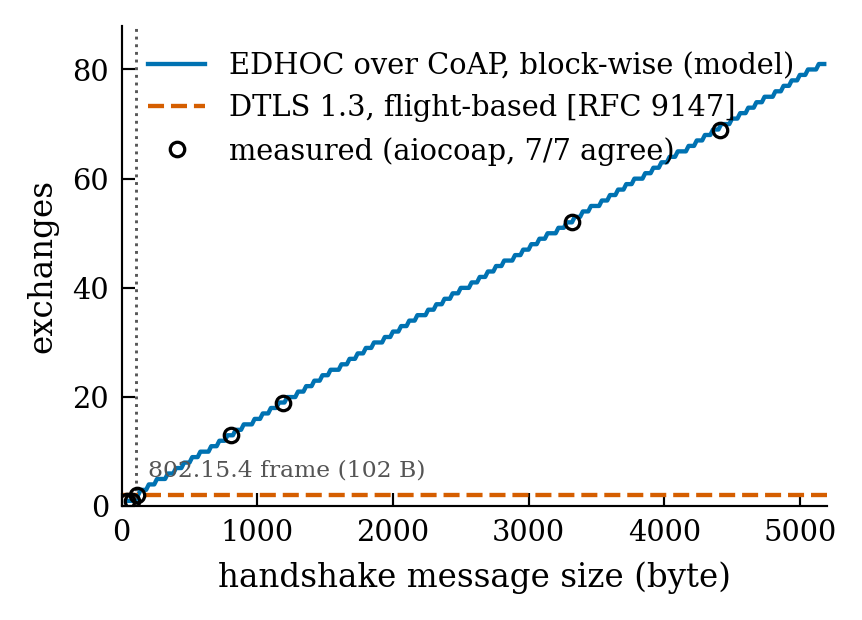
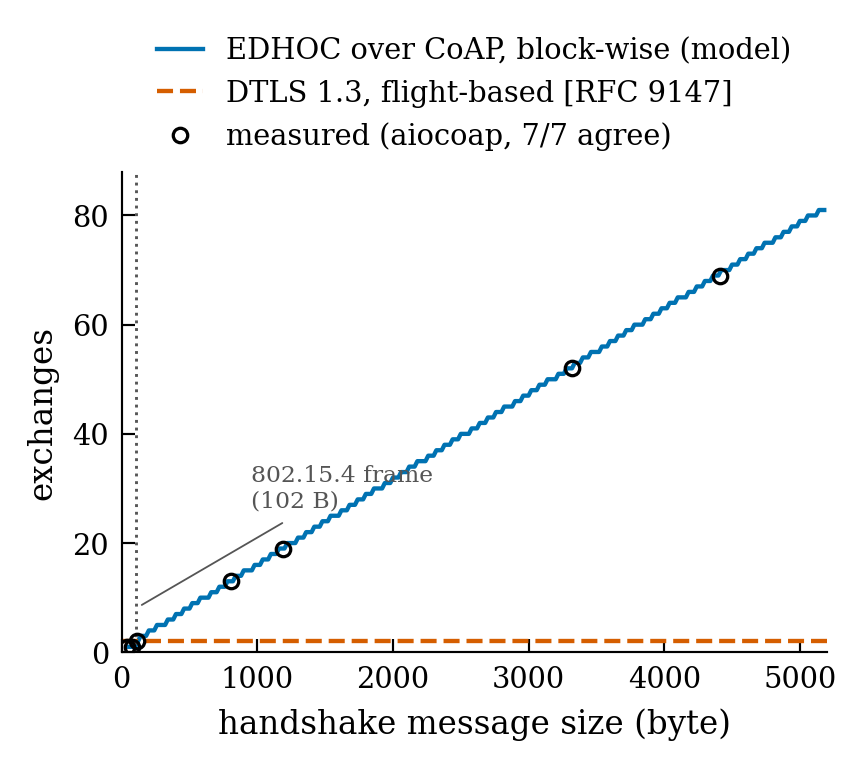
Trim the AI disclosure, fix table cells and float placement, cite the orphan reference
The acknowledgment claimed more than a disclosure should. It now follows the
standard three-part form: prose, code, and proposed measurements, with
responsibility resting on the authors.

Rendering the pages exposed three layout faults that no gate checks, because
none of them is an error.

Table I printed a literal "\{ }checkmark" in every row of its agree column. The
escaping added earlier to protect against underscores in case labels also
escaped the backslash of a LaTeX command placed there deliberately. Cells now
hold plain words; a generator that escapes everything cannot also accept
markup.

Floats were all deferred past the text that discusses them: nothing on the
first two pages, then everything bunched at the end with one figure alone on a
page. Moving the block ahead of the results section lets LaTeX place them
where they are read.

Figure 1's legend sat on the data. The series runs diagonally, so both
"upper left" and "lower right" were tried and both collided; it is now outside
the axes entirely, which is the only position that cannot be invalidated by the
data changing.

One bibliography entry was never cited: the state-fuzzing comparison of
thirteen DTLS implementations, which is the closest prior work to the main
result here. It is now cited where it does the most good, noting that it
examines state-machine conformance rather than behaviour at a constrained MTU,
and that it states its harness excludes fragmentation.

diff --git a/paper/main.tex b/paper/main.tex
@@ -51,6 +51,33 @@ EDHOC, DTLS, post-quantum cryptography, CoAP, IEEE 802.15.4, constrained devices
 % =====================================================================
 \input{sec-intro}
 
+% HINH VA BANG. Tat ca sinh ra, khong go tay.
+\begin{figure}[!t]
+  \centering
+  \includegraphics[width=\columnwidth]{fig2-exchanges.pdf}
+  \caption{\capExchanges}
+  \label{fig:exchanges}
+\end{figure}
+
+\begin{figure*}[!t]
+  \centering
+  \includegraphics[width=\textwidth]{fig4-implementations.pdf}
+  \caption{\capImplementations}
+  \label{fig:impls}
+\end{figure*}
+
+\begin{figure*}[!t]
+  \centering
+  \includegraphics[width=\textwidth]{fig3-blocksize-tradeoff.pdf}
+  \caption{\capBlocksize}
+  \label{fig:blocksize}
+\end{figure*}
+
+\input{../figures/out/tab2-model-vs-measured.tex}
+\input{../figures/out/tab3-implementations.tex}
+
+
+% =====================================================================
 % =====================================================================
 \input{sec-results}
 
@@ -79,33 +106,6 @@ measured on real hardware by others, and nothing here supports a statement about
 protocol rather than about three implementations of it.
 
 % =====================================================================
-% HINH VA BANG. Tat ca sinh ra, khong go tay.
-\begin{figure}[t]
-  \centering
-  \includegraphics[width=\columnwidth]{fig2-exchanges.pdf}
-  \caption{\capExchanges}
-  \label{fig:exchanges}
-\end{figure}
-
-\begin{figure*}[t]
-  \centering
-  \includegraphics[width=\textwidth]{fig4-implementations.pdf}
-  \caption{\capImplementations}
-  \label{fig:impls}
-\end{figure*}
-
-\begin{figure*}[t]
-  \centering
-  \includegraphics[width=\textwidth]{fig3-blocksize-tradeoff.pdf}
-  \caption{\capBlocksize}
-  \label{fig:blocksize}
-\end{figure*}
-
-\input{../figures/out/tab2-model-vs-measured.tex}
-\input{../figures/out/tab3-implementations.tex}
-
-
-% =====================================================================
 \section*{Artifact Availability}
 
 All code, measurement scripts and result files are at
@@ -116,16 +116,12 @@ transcribed by hand, and the repository contains the checks that enforce this.
 % =====================================================================
 \section*{Acknowledgment}
 
-The authors used Anthropic's Claude (Opus~5) as an assistant throughout this work. Its use was
-substantial and covered three areas: drafting and editing the prose of all sections; writing
-the measurement, analysis and figure-generation code released with the artifact; and proposing
-the measurement design itself, including the implementation survey that became the principal
-result, the per-implementation positive controls, and the consistency checks between results,
-figures and text. Several intermediate findings it produced were subsequently retracted after
-its own re-checks, and those retractions are recorded in the repository history. All results
-were produced by executing the released code, and every number reported here was verified
-against the recorded run files by the authors, who take full responsibility for the content of
-this paper.
+The authors used Anthropic's Claude (Opus~5) as an assistant in preparing this manuscript.
+Its use covered three areas: drafting and editing prose; writing the measurement and analysis
+scripts released with the artifact; and proposing several of the measurements reported here.
+All results were produced by executing the released code, and every number was checked against
+the recorded run files by the authors, who take full responsibility for the content of this
+paper.
 
 \bibliographystyle{IEEEtran}
 \bibliography{refs}

diff --git a/figures/make_figures.py b/figures/make_figures.py
@@ -171,8 +171,11 @@ def fig_exchanges(m1):
     # ⚠ LUẬT rút ra sau BỐN lần đè trong cùng một buổi vẽ: chữ đặt trong vùng vẽ phải cạnh
     # tranh chỗ với dữ liệu VÀ với chú giải, mà cả hai đều đổi theo dữ liệu. Nên chú thích
     # mốc đặt ở MÉP DƯỚI bằng toạ độ tương đối, chỗ duy nhất chắc chắn trống ở mọi hình này.
-    ax.text(M.FRAME_PAYLOAD + 90, 4.5, "802.15.4 frame (%d B)" % M.FRAME_PAYLOAD,
-            fontsize=6.5, color=C["gray"], va="bottom")
+    # Nhan moc dat DUOI truc, ngoai vung ve, de khong tranh cho voi duong du lieu.
+    ax.annotate("802.15.4 frame\n(%d B)" % M.FRAME_PAYLOAD,
+                xy=(M.FRAME_PAYLOAD, 8), xytext=(950, 30),
+                fontsize=6.5, color=C["gray"], ha="left", va="center",
+                arrowprops=dict(arrowstyle="-", lw=0.5, color=C["gray"]))
 
     if m1:
         mx = [r["bytes"] for r in m1["rows"]]
@@ -183,7 +186,12 @@ def fig_exchanges(m1):
     ax.set_xlabel("handshake message size (byte)")
     ax.set_ylabel("exchanges")
     ax.set_xlim(0, 5200); ax.set_ylim(0, 88)
-    ax.legend(loc="upper left")
+    # ⚠ Chu giai o "upper left" de len duong du lieu o canh phai cua khung chu, vi duong
+    # di tu duoi trai len tren phai. Vung trong that su la DUOI PHAI.
+    # ⚠ Duong chay CHEO tu duoi trai len tren phai, nen CA HAI goc con lai deu bi chu giai
+    # dai cham vao. Da thu "upper left" va "lower right", hong ca hai. Dat NGOAI khung ve.
+    ax.legend(loc="lower center", bbox_to_anchor=(0.5, 1.02), ncol=1,
+              handlelength=1.6, borderaxespad=0.0)
     save(fig, "fig2-exchanges")
 
 
@@ -317,8 +325,11 @@ def tables(m1, m3):
 
     # B2: mô hình so với ĐO ĐƯỢC
     if m1:
+        # ⚠ KHONG dat lenh LaTeX (\checkmark) vao o bang: `_esc` thoat het ky tu dac biet
+        # nen no in ra nguyen van "\{ }checkmark". Do chinh ban sua thoat ky tu gay ra. Dung
+        # ky tu thuong, bo sinh khong can biet gi ve LaTeX.
         rows = [[r["case"], r["bytes"], r["predicted"], r["measured_c2s"],
-                 r"\checkmark" if r["match"] else r"$\times$"] for r in m1["rows"]]
+                 "yes" if r["match"] else "NO"] for r in m1["rows"]]
         write_tex("tab2-model-vs-measured.tex", texify(
             rows, ["case", "byte", "model", "measured", "agree"],
             "Exchange-count model against an independent CoAP implementation (%s). Datagrams "
@@ -352,8 +363,9 @@ def tables(m1, m3):
                          "%d/%d" % (ok102, len(at102)) if at102 else "--", bound])
         write_tex("tab3-implementations.tex", texify(
             rows, ["implementation", "cells", "at frame MTU", "bounded by"],
-            "Three DTLS implementations on a constrained link. The %d~B MTU is the payload of "
-            "an IEEE~802.15.4 frame after the MAC header and AES-CCM$^*$." % M.FRAME_PAYLOAD,
+            "Bounding quantity for each DTLS implementation. `Cells' counts configurations "
+            "completing a handshake out of those swept; `at frame MTU' restricts that to "
+            "MTU~%d~B." % M.FRAME_PAYLOAD,
             "tab:impls", "llll",
             "The three are bounded by different quantities, so these results characterise the "
             "implementations and not the DTLS protocol.", wide=True))

diff --git a/figures/out/tab2-model-vs-measured.tex b/figures/out/tab2-model-vs-measured.tex
@@ -8,13 +8,13 @@
 \hline
 case & byte & model & measured & agree \\
 \hline
-EDHOC message 1, classical & 37 & 1 & 1 & \textbackslash\{\}checkmark \\
-EDHOC message 2, classical & 111 & 2 & 2 & \textbackslash\{\}checkmark \\
-EDHOC message 3, classical & 77 & 1 & 1 & \textbackslash\{\}checkmark \\
-EDHOC message 1, ML-KEM-512 & 808 & 13 & 13 & \textbackslash\{\}checkmark \\
-EDHOC message 1, ML-KEM-768 & 1192 & 19 & 19 & \textbackslash\{\}checkmark \\
-EDHOC message 2, K768/D65 & 4415 & 69 & 69 & \textbackslash\{\}checkmark \\
-EDHOC message 3, K768/D65 & 3322 & 52 & 52 & \textbackslash\{\}checkmark \\
+EDHOC message 1, classical & 37 & 1 & 1 & yes \\
+EDHOC message 2, classical & 111 & 2 & 2 & yes \\
+EDHOC message 3, classical & 77 & 1 & 1 & yes \\
+EDHOC message 1, ML-KEM-512 & 808 & 13 & 13 & yes \\
+EDHOC message 1, ML-KEM-768 & 1192 & 19 & 19 & yes \\
+EDHOC message 2, K768/D65 & 4415 & 69 & 69 & yes \\
+EDHOC message 3, K768/D65 & 3322 & 52 & 52 & yes \\
 \hline
 \end{tabular}
 \\[2pt]{\footnotesize Block size 64~B, engaging above 102~B. This validates the counting only; latency and energy are not measured here.}

diff --git a/paper/sec-intro.tex b/paper/sec-intro.tex
@@ -49,7 +49,11 @@ fragments at its own handshake layer and sends each flight back-to-back, does no
 independently of any post-quantum consideration, the DTLS implementations one would compare
 against do not all run on such a link at all: of three widely used libraries, one cannot
 complete a handshake at an IEEE~802.15.4 frame payload with any credential size, classical
-ones included, and the three are bounded by different quantities.
+ones included, and the three are bounded by different quantities. DTLS implementations have
+been compared before, notably by state fuzzing across thirteen of
+them~\cite{fiterau2020}, but for state-machine conformance rather than behaviour under a
+constrained MTU; that work states explicitly that its harness ``does not employ reordering and
+fragmentation''.
 
 Neither result concerns cryptographic strength, and neither requires a post-quantum library to
 reproduce: the argument is about message size, so credentials are padded to post-quantum

diff --git a/figures/out/tab3-implementations.tex b/figures/out/tab3-implementations.tex
@@ -1,7 +1,7 @@
 %% SINH TU figures/make_figures.py -- KHONG sua tay.
 \begin{table*}[t]
 \centering
-\caption{Three DTLS implementations on a constrained link. The 102~B MTU is the payload of an IEEE~802.15.4 frame after the MAC header and AES-CCM$^*$.}
+\caption{Bounding quantity for each DTLS implementation. `Cells' counts configurations completing a handshake out of those swept; `at frame MTU' restricts that to MTU~102~B.}
 \label{tab:impls}
 \footnotesize
 \begin{tabular}{llll}
